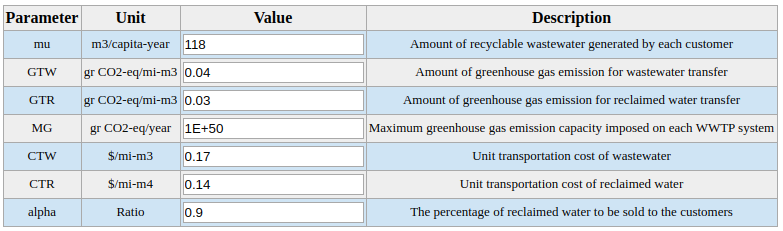
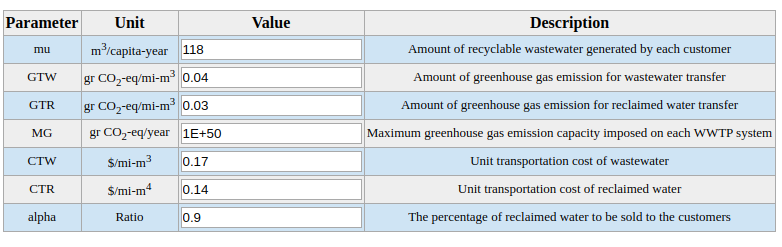
Revise Documentation, Demo, and Site

diff --git a/templates/documentation.html b/templates/documentation.html
@@ -21,7 +21,7 @@
 	</div>
 
 	<!-- NAVIGATION BAR ENDS -->
-<!-- 	<div class="TOC">
+	<div class="TOC">
 		<h2 id="table-of-content">Table of Content<a class="headerlink" href="#table-of-content" title="Permanent link"></a></h2>
 		<ul>
 			<li><a href="#project-management">Project Management</a></li>
@@ -29,30 +29,30 @@
 			<ul>
 				<li><a href="#project-dimensions">Project Dimensions</a></li>
 				<li><a href="#population-clusters">Population Clusters</a></li>
-				<li><a href="#water-treatment-technologies">Water-treatment technologies</a></li>
-				<li><a href="#potential-locations">Potential Water-treatment Locations</a></li>
+				<li><a href="#water-treatment-technologies">Wastewater treatment technologies</a></li>
+				<li><a href="#potential-locations">Potential Wastewater treatment Locations</a></li>
 				<li><a href="#model-parameters">Model Parameters</a></li>
 			</ul>
 			<li><a href="#run-optimization">How to run optimizer</a></li>
 			<li><a href="#output">How to interpret results</a></li>		
 		</ul>
-	</div> -->
+	</div>
 
 	<article class="markdown-body">
-		<h2 id="table-of-content">Table of Content<a class="headerlink" href="#table-of-content" title="Permanent link"></a></h2>
+<!-- 		<h2 id="table-of-content">Table of Content<a class="headerlink" href="#table-of-content" title="Permanent link"></a></h2>
 		<ul>
 			<li><a href="#project-management">Project Management</a></li>
 			<li><a href="#input-data">How to input data</a></li>
 			<ul>
 				<li><a href="#project-dimensions">Project Dimensions</a></li>
 				<li><a href="#population-clusters">Population Clusters</a></li>
-				<li><a href="#water-treatment-technologies">Water-treatment technologies</a></li>
+				<li><a href="#water-treatment-technologies">Wastewater treatment technologies</a></li>
 				<li><a href="#potential-locations">Potential Water-treatment Locations</a></li>
 				<li><a href="#model-parameters">Model Parameters</a></li>
 			</ul>
 			<li><a href="#run-optimization">How to run optimizer</a></li>
 			<li><a href="#output">How to interpret results</a></li>		
-		</ul>
+		</ul> -->
 
 		<h2 id="project-management">Project Management<a class="headerlink" href="#project-management" title="Permanent link"></a></h2>
 
@@ -62,6 +62,8 @@
 		<p align="center"><img src="{{ url_for('static', filename = 'Documentation1.png') }}"></p>
 		<br><br>
 		A project is identified by its unique <b>Project ID</b>. A unique <b>Project ID</b> is randomly generated when you create a project. Please save this <b>Project ID</b> to come back to your project in the future and to check its status on the optimizer. <br><br>
+		The <b>Project</b> page is divided into 2 sections, <b>Create a New Project</b> and <b>Retrieve a Project and check its status</b>. <br><br>
+		The <b>Create a New Project</b> section would give you a new <b>Project ID</b> after providing a brief description of the project.
 		<p align="center"><img src="{{ url_for('static', filename = 'Documentation2.png') }}"></p>
 		<br><br>
 		You can come back to an existing project at any time by using the <b>"Retrieve a Project and check its status"</b> option. <br><br>
@@ -81,11 +83,11 @@
 		<p align="center"><img src="{{ url_for('static', filename = 'Documentation4.png') }}"></p>
 
 			<h4 id="project-dimensions">Project Dimensions<a class="headerlink" href="#project-dimensions" title="Permanent link"></a></h4>
-			This page would ask for three integer input:
+			This page would ask for three integer inputs:
 			<ul>
-				<li>Total number of population clusters being considered for servicing in this project.</li>
-				<li>Total number of candidate locations for implementing water-treatment facility.</li>
-				<li>Lifespan of the project: how long do you expect the water-treatment facilities to last?</li>
+				<li>Total number of population clusters being considered for this project.</li>
+				<li>Total number of candidate locations for implementing water reclamation facility.</li>
+				<li>Lifespan of the project: how long do you expect the water reclamation facilities to last?</li>
 			</ul>
 			<br>
 			<p align="center"><img src="{{ url_for('static', filename = 'Documentation5.png') }}"></p>
@@ -98,39 +100,40 @@
 			<br>
 			The form asks for the following information about each population cluster:
 			<ul>
-				<li>Cluster Name: can be any string.</li>
+				<li>Cluster Name: can be any combination of text and numbers.</li>
 				<li>Current Population: has to be an integer. Please do not include the comma ",". For example, "100,000" would cause a bug but "100000" would be acceptable.</li>
-				<li>Population growth rate: the annual rate the population is growing. For example, input "1" for 1%/year growth rate.</li>
-				<li>Latitude and Longitude of the population cluster.</li>
+				<li>Population growth rate: the annual rate the population is growing. For example, input "1.15" for 1.15%/year growth rate.</li>
+				<li>Latitude and Longitude of the population cluster. For your convenience, a tool for searching latitude and longitude is provided. As shown in the picture below, you can type an address or a location name to start the search. For example, by typing "University of South Florida" and selecting the first option, we obtained the latitude and longitude of USF. Then you can enter the row number into the input box and click <b>Add</b> to add the found latitude and longitude to the table.</li>
 			</ul>
+			<p align="center"><img src="{{ url_for('static', filename = 'Documentation12.png') }}"></p>
 
 
-			<h4 id="water-treatment-technologies">Water-treatment technologies<a class="headerlink" href="#water-treatment-technologies" title="Permanent link"></a></h4>
-			In this page, we ask for specifications of the potential water-treatment technologies on Small, Medium, and Large scales. These specifications are:
+			<h4 id="water-treatment-technologies">Wastewater treatment technologies<a class="headerlink" href="#water-treatment-technologies" title="Permanent link"></a></h4>
+			In this page, we ask for specifications of the potential Wastewater treatment technologies on Small, Medium, and Large scales. These specifications are:
 			<ul>
-				<li>Capkt: Capacity (m<sup>3</sup>/year)</li>
-				<li>CCkt:  Total fixed cost of construction per plant's capacity ($/(m<sup>3</sup>/year))</li>
-				<li>OCt:   Annual operation and maintenance cost ($/m<sup>3</sup>)</li>
-				<li>SRWt:  Selling price of reclaimed water ($/m<sup>3</sup>)</li>
-				<li>GPt:   Amount of greenhouse gas emission from process of each m<sup>3</sup> of wastewater (gr CO<sub>2</sub>-eq/m<sup>3</sup>)</li>
+				<li>Cap<sub>kt</sub>: Capacity (m<sup>3</sup>/year)</li>
+				<li>CC<sub>kt</sub>:  Total fixed cost of construction per plant's capacity ($/(m<sup>3</sup>/year))</li>
+				<li>OC<sub>t</sub>:   Annual operation and maintenance cost ($/m<sup>3</sup>)</li>
+				<li>SRW<sub>t</sub>:  Selling price of reclaimed water ($/m<sup>3</sup>)</li>
+				<li>GP<sub>t</sub>:   Amount of greenhouse gas emission from process per m<sup>3</sup> of wastewater (gr CO<sub>2</sub>-eq/m<sup>3</sup>)</li>
 			</ul>
 			
-			By default, we provide specifications for five technologies. Users are welcomed to 
+			By default, we provide specifications for five technologies. Users are welcome to input data for alternative processes. 
 
-			<h4 id="potential-locations">Potential Water-treatment Locations<a class="headerlink" href="#potential-locations" title="Permanent link"></a></h4>
-			This page has a form that asks for information about potential water-treatment locations. The form is a table with the number of rows equal to the number of potential locations that you entered in <a href="#project-dimensions">Project Dimensions</a>. For example, if you entered 9 locations in <a href="#project-dimensions">Project Dimensions</a>, the table in this page would have 9 rows:
+			<h4 id="potential-locations">Potential Wastewater treatment Locations<a class="headerlink" href="#potential-locations" title="Permanent link"></a></h4>
+			This page has a form that asks for information about potential wastewater treatment locations. The form is a table with the number of rows equal to the number of potential locations that you entered in <a href="#project-dimensions">Project Dimensions</a>. For example, if you entered 9 locations in <a href="#project-dimensions">Project Dimensions</a>, the table in this page would have 9 rows:
 			<br>
 			<p align="center"><img src="{{ url_for('static', filename = 'Documentation7.png') }}"></p>
 			The form asks for the following information about each potential location:
 			<ul>
 				<li>Cluster Name: can be any string.</li>
 				<li>Latitude, Longitude</li>
-				<li>Existing Location: Check this box if the location is an operating water-treatment facility.</li>
-				<li>Technology at existing location: please select N/A if not an existing location or if you are willing to change the technology for the existing location. Otherwise, please select the technology currently used in the existing location. If the technology is not found in the drop-down list, please go back to <a href="#water-treatment-technologies">Water-treatment technologies</a> to add.</li>
+				<li>Existing Location: Check this box if the location is an operating wastewater treatment facility.</li>
+				<li>Technology at existing location: please select N/A if not an existing location or if you are willing to change the technology for the existing location. Otherwise, please select the technology currently used in the existing location. If the technology is not found in the drop-down list, please go back to <a href="#water-treatment-technologies">Wastewater treatment technologies</a> to add.</li>
 			</ul>
 			<br>
 			<h4 id="model-parameters">Model Parameters<a class="headerlink" href="#model-parameters" title="Permanent link"></a></h4>
-			This page allows you to modify some parameters that drive the optimization process. The last column provides definition and the second column provides the unit for each parameter.
+			This page allows you to modify some parameters that drive the optimization process. The last column provides the definition of the parameter and the second column provides the unit for each parameter.
 			<p align="center"><img src="{{ url_for('static', filename = 'Documentation8.png') }}"></p>
 		
 		<h2 id="run-optimization">How to run optimization<a class="headerlink" href="#output" title="Permanent link"></a></h2>
@@ -139,17 +142,17 @@
 			<li>After clicking <b>Next</b> on the <a href="#model-parameters">Model Parameters</a> page, you will land on a Review webpage where you can place the request by clicking the <b>Run optimizer</b> button at the end of the page.</li>
 			<li>You can go to the <a href="#project-management">Project Management</a> page, retrieve the project, and click <b>Run optimizer</b>.</li>
 		</ul>
-		We implement a first-come-first-serve queue to process requests to avoid the situation where multiple concurrent requests crash the server. Requests are processed one-by-one and are given all computational resources on the server. You can check your request's position on the queue by looking at the <b>Project status</b> column after retrieving your project on the <a href="#project-management">Project Management</a> page.
+		We implement a first-come-first-serve queue to process requests. Requests are processed one-by-one and are given all computational resources on the server. You can check your request's position on the queue by looking at the <b>Project status</b> column after retrieving your project on the <a href="#project-management">Project Management</a> page.
 
 		<h2 id="output">How to interpret results<a class="headerlink" href="#output" title="Permanent link"></a></h2>
 		
-		Our model minimizes Z<sub>E</sub>, the financial costs associated with the entire reclamation system, and Z<sub>C</sub>, the greenhouse gas emission of the reclamation system. The mathematical formulae for Z<sub>E</sub> and Z<sub>C</sub> can be found in <a href="https://www.sciencedirect.com/science/article/pii/S0959652619330975" target="_blank">Rezaei et al.</a>. There may be multiple optimal solutions, and they will all be displayed on a 2-dimensional graph such as the one below.
+		Our model minimizes Z<sub>C</sub>, the financial costs associated with the entire reclamation system, and Z<sub>E</sub>, the greenhouse gas emission of the reclamation system. The mathematical formulae for Z<sub>C</sub> and Z<sub>E</sub> can be found in <a href="https://www.sciencedirect.com/science/article/pii/S0959652619330975" target="_blank">Rezaei et al.</a>. There may be multiple optimal solutions, and they will all be displayed on a 2-dimensional graph such as the one below.
 		<p align="center"><img src="{{ url_for('static', filename = 'Documentation9.png') }}"></p>
 		<br>
 		The graph is interactive, you can click on the points to reveal more details about the solutions. For example, by clicking on the first point on the left, details about the first solution is presented in the following table:
 		<p align="center"><img src="{{ url_for('static', filename = 'Documentation10.png') }}"></p>
 		<br>
-		The details are ordered by water-treatment locations. The third and fourth columns show the optimal technology and scale for each location. The fifth columns show the population clusters which each location should be servicing. The last four columns show the receiving and sending water capacity.
+		The details are ordered by wastewater treatment locations. The third and fourth columns show the optimal technology and scale for each location. The fifth columns show the population clusters that each location should be servicing. The last four columns show the receiving and sending water capacity.
 		<br>
 		In addition, we also provide an interactive map for better visualization.
 		<p align="center"><img src="{{ url_for('static', filename = 'Documentation11.png') }}"></p>

diff --git a/templates/demo.html b/templates/demo.html
@@ -50,13 +50,11 @@
 		<!-- What this tool does  -->
 		<h2 id="what-this-tool-does">What this tool does<a class="headerlink" href="#what-this-tool-does" title="Permanent link"></a></h2>
 
-		<p>This tool utilizes the mathematical model published by <a href="https://www.sciencedirect.com/science/article/pii/S0959652619330975" target="_blank">Rezaei et al.</a> to minimize the costs and carbon footprint and maximize the value of resource recovery of water reclamation systems. Users will be asked to provide information about potential water-treatment locations and population clusters that will be served by the potential locations. The tool will compute the optimized solutions that contain selected water-treatment locations, how locations are connected to the population clusters, what technology should be implemented in each location, and the scale of each location.</p>
+		<p>This tool utilizes the mathematical model published by <a href="https://www.sciencedirect.com/science/article/pii/S0959652619330975" target="_blank">Rezaei et al.</a> to minimize the costs and carbon footprint and maximize the value of resource recovery of water reclamation systems. Users will be asked to provide information about potential water-treatment locations and population clusters that will be served. The tool will compute the optimized solutions and the output of the model includes selected water-treatment locations, the connections between the population clusters to the treatment plants, the optimzal technolgy to be implemented in each location, and the scale of each plant.</p>
 
-		<p>To see what input data the tool needs, please check <a href="#sample-input-data">Sample input data</a>. To see what a result page would look like, please check <a href="#sample-output">Sample output</a>.</p>
+		<p>To see what input data the tool needs, please refer to the <a href="#sample-input-data">Sample input data section</a>. To see what the results would look like, please refer to the <a href="#sample-output">Sample output section</a>.</p>
 
 		<p>Full documentation is available <a href="{{ url_for('documentation') }}">here</a></p>
-
-		<p>This tool is free and open-source. It was supported by the NSF #1454559.</p>
 
 		<!-- sample input -->
 		<h2 id="sample-input-data">Sample input data<a class="headerlink" href="#sample-input-data" title="Permanent link"></a></h2>
@@ -64,7 +62,7 @@
 
 			<!-- Sample population clusters -->
 			<h4 id="population-clusters">Population clusters <a class="headerlink" href="#population-clusters" title="Permanent link"></a></h4>
-			Below is a sample input table for populations clusters. Required information includes cluster name, current population, population growth rate per year (in decimal), latitude, and longitude.
+			Below is a sample input table for populations clusters. Required information includes cluster name, current population, population growth rate per year (in decimal format), and the latitude and longitude of the cluster.
 			<br><br>
 
 			<table class=blueTable align="center">
@@ -234,7 +232,7 @@
 
 			<!-- Sample potential locations -->
 			<h4 id="potiential-water-treatment-locations">Potential water-treatment locations <a class="headerlink" href="#potiential-water-treatment-locations" title="Permanent link"></a></h4>
-			Below is a sample input table for water-treatment locations. Required information includes location name, latitude, longitude, whether a location is existing, and technology being used at an existing location.
+			Below is a sample input table for water-treatment locations. Required information includes location name, latitude, longitude, whether a location currently exists, and the technology being used at an existing location.
 			<br><br>
 
 			<table class=blueTable align="center">
@@ -329,18 +327,18 @@
 
 			<!-- Sample technologies -->
 			<h4 id="water-treatment-technologies">Water-treatment technologies<a class="headerlink" href="#water-treatment-technologies" title="Permanent link"></a></h4>
-			Below is a sample input table for water-treatment technologies. The only required input is the selection checkboxes in the first column. We have default values for columns 4 to 8, but users can modify them. The meaning of the values in columns 4 to 8 are described in the <a href="{{ url_for('documentation') }}#water-treatment-technologies">Documentation</a>.
+			Below is a sample input table for water-treatment technologies. The only required input is the selection checkboxes in the first column. Default values are shown for columns 4 to 8, but users can modify them. The meaning of the values in columns 4 to 8 are described in the <a href="{{ url_for('documentation') }}#water-treatment-technologies">Documentation</a>.
 			<br><br>
 				<table class=blueTable align="center">
 					<tr> <!-- Table headers -->
 					<th> Check to Select </th>
 					<th> Technology </th>
 					<th> Scale </th>
-					<th><label for="default_techs-rows-0-Small-Capkt">Capkt (m3/year)</label></th>
-					<th><label for="default_techs-rows-0-Small-CCkt">CCkt ($/(m3/year))</label></th>
-					<th><label for="default_techs-rows-0-Small-OCt">OCt ($/m3)</label></th>
-					<th><label for="default_techs-rows-0-Small-SRWt">SRWt ($/m3)</label></th>
-					<th><label for="default_techs-rows-0-Small-GPt">GPt (gr CO2-eq/m3)</label></th>
+					<th><label for="default_techs-rows-0-Small-Capkt">Capacity Cap<sub>kt</sub> (m<sup>3</sup>/year)</label></th>
+					<th><label for="default_techs-rows-0-Small-CCkt">Fixed Cost CC<sub>kt</sub> ($/(m<sup>3</sup>/year))</label></th>
+					<th><label for="default_techs-rows-0-Small-OCt">Annual Cost OC<sub>t</sub> ($/m<sup>3</sup>)</label></th>
+					<th><label for="default_techs-rows-0-Small-SRWt">Selling price of reclaimed water SRW<sub>t</sub> ($/m<sup>3</sup>)</label></th>
+					<th><label for="default_techs-rows-0-Small-GPt">Amount of greenhouse gas emission from process of each m3 of wastewater GP<sub>t</sub> (gr CO<sub>2</sub>-eq/m<sup>3</sup>)</label></th>
 					</tr>
 					<tr> <!-- Table rows -->
 					<td rowspan="3"><input checked id="default_techs-rows-0-Select" name="default_techs-rows-0-Select" type="checkbox" value="y"></td>
@@ -478,7 +476,7 @@
 
 		<!-- sample output -->
 		<h2 id="sample-output">Sample output<a class="headerlink" href="#sample-output" title="Permanent link"></a></h2>
-		Our model minimizes Z<sub>E</sub>, the financial costs associated with the entire reclamation system, and Z<sub>C</sub>, the greenhouse gas emission of the reclamation system. There may be multiple optimal solutions, and they will all be displayed on a 2-dimensional graph such as the one below.
+		Our model minimizes Z<sub>C</sub>, the financial costs associated with the entire reclamation system, and Z<sub>E</sub>, the greenhouse gas emission of the reclamation system. There may be multiple optimal solutions, and they will all be displayed on a 2-dimensional graph such as the one below.
 
 		<!-- show the chart for selecting solutions -->
 		<div style="width:50%;text-align:center;margin:auto;">
@@ -727,8 +725,8 @@
 				html_text += '<th>Technology</th>';
 				html_text += '<th>Scale</th>';
 				html_text += '<th>Servicing Clusters</th>';
-				html_text += '<th>Receiving Capacity (m3/year)</th>';
-				html_text += '<th>Sending Capacity (m3/year)</th>';
+				html_text += '<th>Receiving Capacity (m<sup>3</sup>/year)</th>';
+				html_text += '<th>Sending Capacity (m<sup>3</sup>/year)</th>';
 				html_text += '<th>Receiving Capacity (MGD)</th>';
 				html_text += '<th>Sending Capacity (MGD)</th>';
 

diff --git a/templates/index.html b/templates/index.html
@@ -22,20 +22,19 @@
 	<article class="markdown-body">
 		<h1 align="center">WELCOME!</h1>
 		<br>
-		<p>This is a web-based tool that can help civil engineers and policymakers make optimal decisions in developing water reclamation and reuse chain. The tool will ask for information about population clusters under consideration and potential water-treatment locations, then use the provided information to mathematically minimize the costs and environmental impacts and to maximize the value of water recovery. Finally, the recommended designs are presented through intelligible visualizations.</p>
-		
-		<p>To view a quick demonstration, please take a tour at <a href="{{ url_for('demo') }}">Demo</a>.</p>
-		
-		<p>For guidance to use this tool, please read the <a href="{{ url_for('documentation') }}">Documentation</a>.</p>
-		
-		<p>If you have any question, please check the <a href="{{ url_for('Contact') }}">Contact</a> page.</p>
+		<p>This tool is intended to help civil engineers and policymakers make sustainable decisions in the design of integrated wastewater management systems. The tool will ask for information about the population clusters that will be under consideration and potential water-treatment locations, then use the provided information to mathematically minimize the costs and environmental impacts and to maximize the value of water recovery. Finally, the recommended designs (including treatment trains and the scale of implementation) are presented through intelligible visualizations.</p>
 
 		<p>To start using the tool, please go to <a href="{{ url_for('projects') }}">Projects page</a> and create a new project.</p>
 
-		<p>This tool is free and open-source. It was supported by the NSF #1454559.</p>
+		<p>To view a quick demonstration, please take a tour of the <a href="{{ url_for('demo') }}">Demo</a>.</p>
+
+		<p>For guidance in using this tool, please read the <a href="{{ url_for('documentation') }}">Documentation</a> page.</p>
+
+		<p>If you have questions or feedback, you may find the best method to contact us via the <a href="{{ url_for('Contact') }}">Contact</a> page.</p>
+
+		<p>This is an open-source tool that is intended for non-commercial use and and is free to the public. This material is based upon work supported by the National Science Foundation Faculty Early Career Development (CAREER) grant of the United States (No. 1454559). Any opinions, findings, and conclusions or recommendations expressed in this material are those of the authors and do not necessarily reflect the views of the National Science Foundation.</p>
 
 		<b>Browser Compatibility:</b> We have tested that this site functions well on Google Chrome, Mozilla FireFox, Microsoft Edge, and Safari. Microsoft Internet Explorer may or may not work.
-
 
 	</article>
 

diff --git a/templates/tech_input.html b/templates/tech_input.html
@@ -36,16 +36,16 @@
 	<br>
 	<form method="POST" action="{{ url_for('tech_input', projectID = projectID) }}" align="center">
 		{{ techs.csrf_token }}
-		<table class=blueTable align="center">
+		<table class=blueTable align="center" style="max-width:1200px;">
 			<tr> <!-- Table headers  -->
 				<th> Check to Select </th> 
 				<th> Technology </th> 
 				<th> Scale </th>
-				<th>{{ techs.default_techs.rows[0].Small.Capkt.label }}</th>
-				<th>{{ techs.default_techs.rows[0].Small.CCkt.label }}</th>
-				<th>{{ techs.default_techs.rows[0].Small.OCt.label }}</th>
-				<th>{{ techs.default_techs.rows[0].Small.SRWt.label }}</th>
-				<th>{{ techs.default_techs.rows[0].Small.GPt.label }}</th>
+				<th> Capacity Cap<sub>kt</sub> (m<sup>3</sup>/year) </th>
+				<th> Fixed Cost CC<sub>kt</sub> ($/(m<sup>3</sup>/year)) </th>
+				<th> Annual Cost OC<sub>t</sub> ($/m<sup>3</sup>) </th>
+				<th> Selling price of reclaimed water SRW<sub>t</sub> ($/m<sup>3</sup>) </th>
+				<th> Amount of greenhouse gas emission from process of each m3 of wastewater GP<sub>t</sub> (gr CO<sub>2</sub>-eq/m<sup>3</sup>) </th>
 			</tr>
 			{% for r in techs.default_techs.rows %}
 				<tr> <!-- Table rows -->

diff --git a/templates/plant_input.html b/templates/plant_input.html
@@ -100,6 +100,7 @@
 	<div align="center"><span id="json-response" style="color:red; font-weight:bold; font-size:12pt;">
 		Search for a place by address. Coordinates will be displayed here!
 	</span></div>
+	<div id="Button Holder" align="center"></div>
 	<br>
 	<div id="this is for alignment" align="center">
 		<div id="map" class="flex-child flex-child--grow bg-darken10 viewport-twothirds viewport-full-mm"></div>

diff --git a/templates/param_input.html b/templates/param_input.html
@@ -38,7 +38,7 @@
 				{{ r.Unit(type="hidden") }}
 				{{ r.Description(type="hidden") }}
 				<td>{{ r.Label.data }}</td>
-				<td>{{ r.Unit.data }}</td>
+				<td>{{ r.Unit.data|safe }}</td>
 				<td>{{ r.Value }}</td> 
 				<td>{{ r.Description.data }}</td>
 			</tr>

diff --git a/static/TOC.css b/static/TOC.css
@@ -2,7 +2,7 @@
 	overflow: hidden;
 	position: fixed;
 	left: 25px;
-	top: 100px;
+	top: 50px;
 	max-width: 15%;
   font-family: sans-serif;
   -ms-text-size-adjust: 100%;
